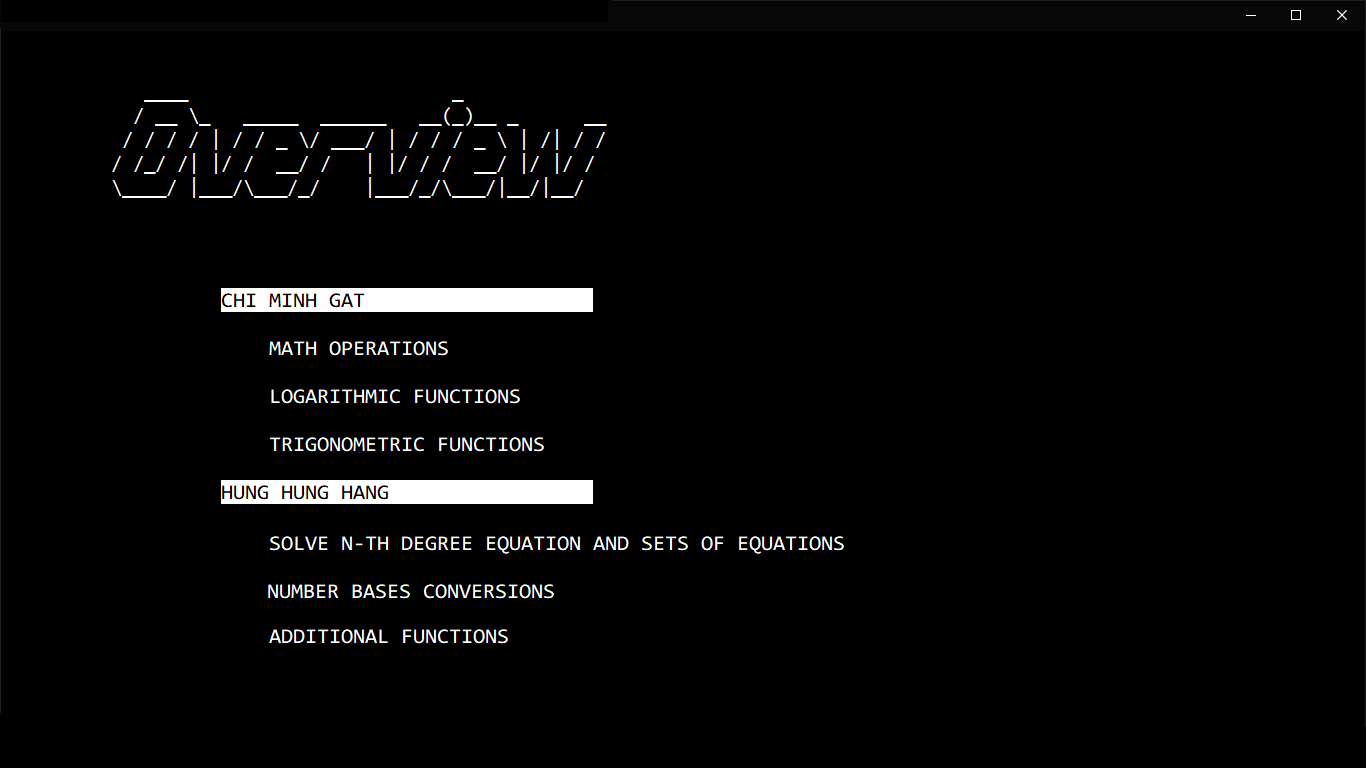
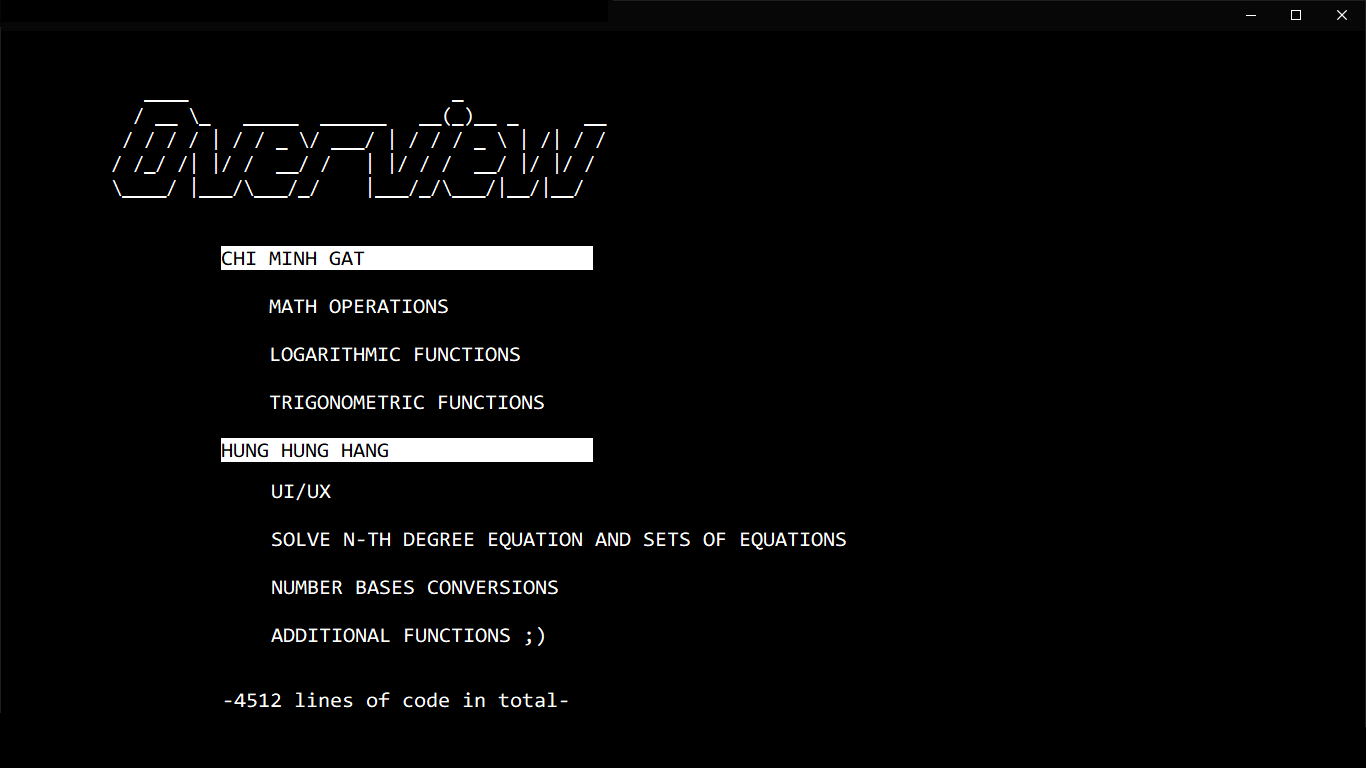
Finishing Touches part2

diff --git a/Slide Resources/room.Main.c b/Slide Resources/room.Main.c
@@ -79,13 +79,13 @@ void roomMain(){
 	
 	// assign values to the strings
 	char str1[50] = "PHAM DUC BINH",
-		 str2[50] = "NGUYEN PHU HUNG",
-		 str3[50] = "NGUYEN QUANG KHAI",
-		 str4[50] = "Derivative & Anti-Derivative     ",
-		 str5[50] = "Customizable Variables           ",
-		 str6[50] = "Units of Measurement Conversion  ",
-		 str7[50] = "Refine Results of Calculations   ",
-		 str8[50] = "           ";
+		 str2[50] = "PRESENTATION",
+		 str3[50] = "NGUYEN PHU HUNG",
+		 str4[50] = "UI/UX",
+		 str5[50] = "SOLVE N-TH DEGREE EQUATION AND SETS OF EQUATIONS",
+		 str6[50] = "NUMBER BASES CONVERSIONS",
+		 str7[50] = "ADDITIONAL FUNCTIONS ;)",
+		 str8[50] = "-4512 lines of code in total-";
 	char* str[9]; // store addresses of those strings
 	
 	// store addresses
